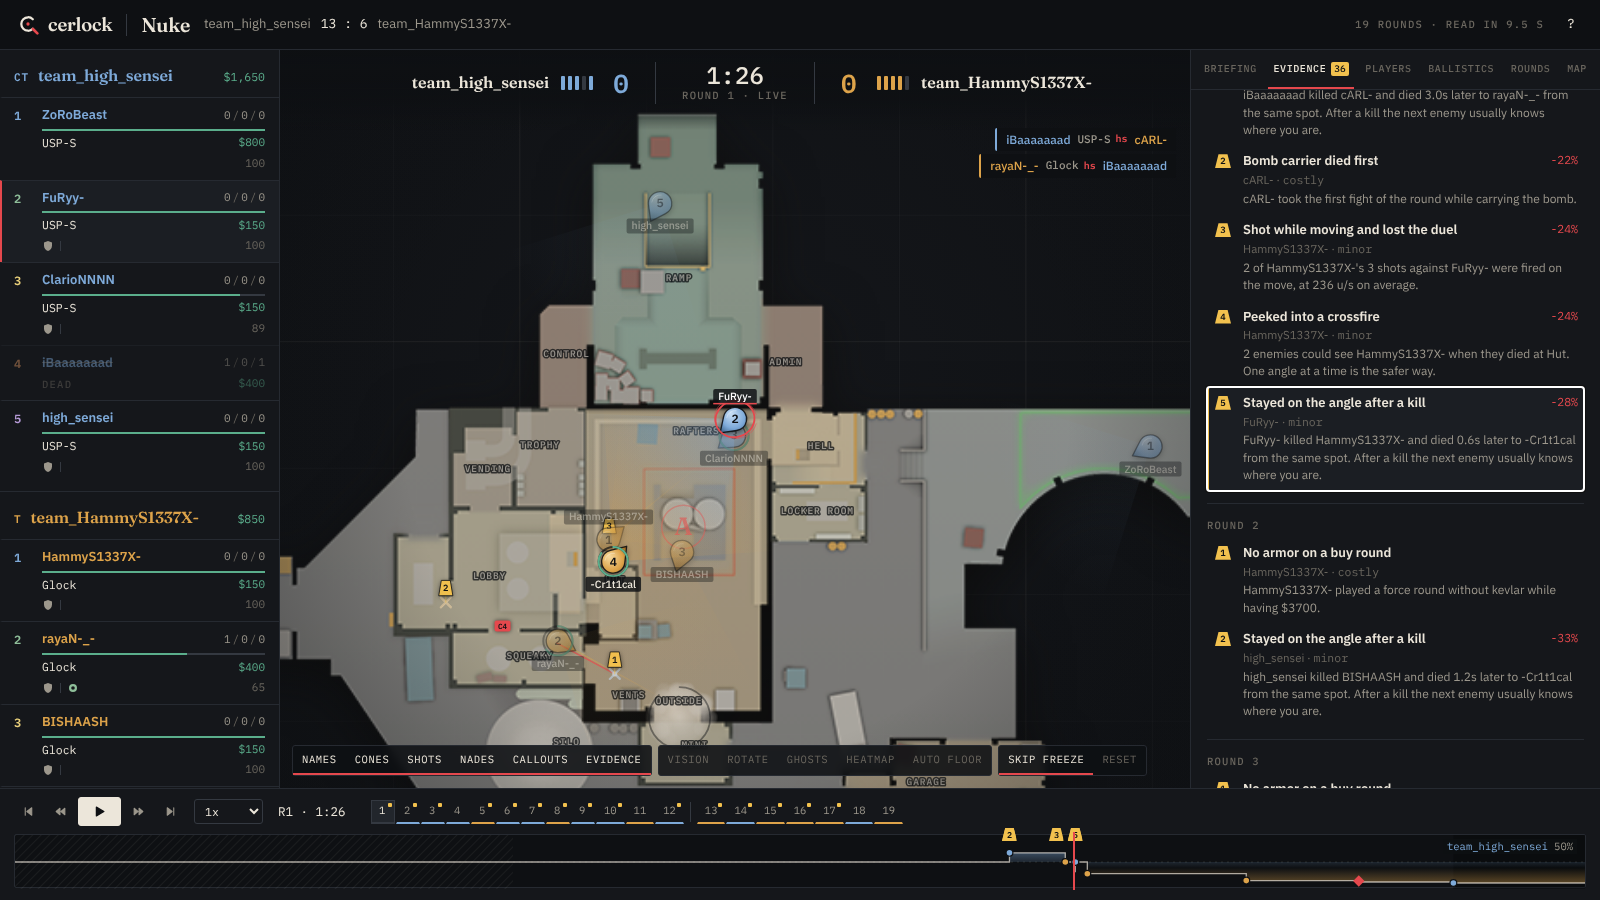
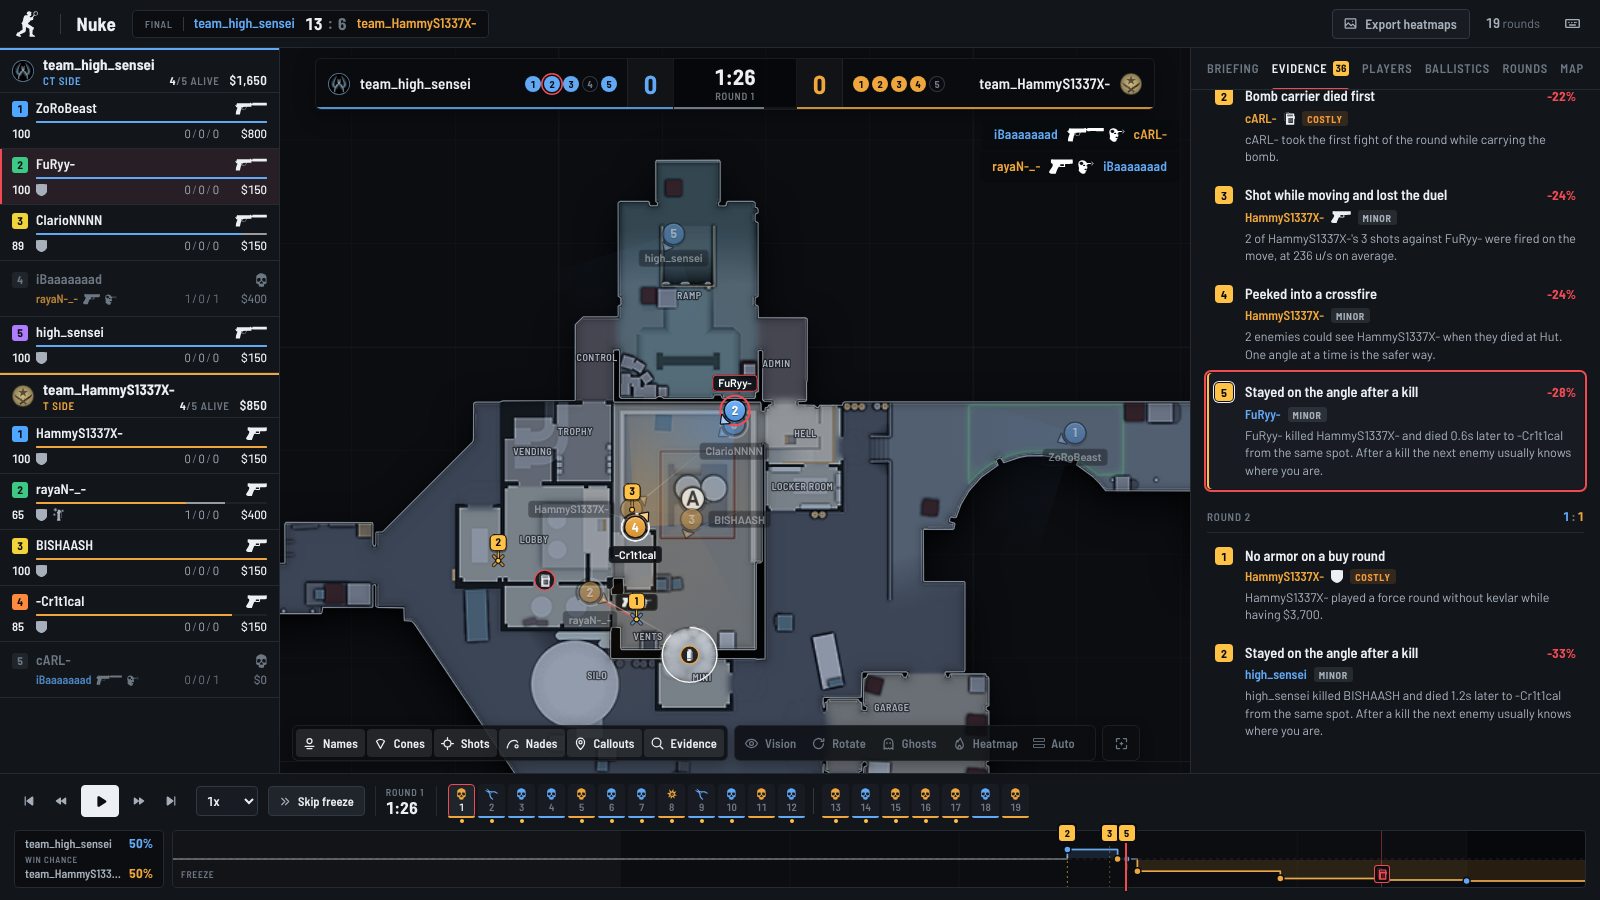
New screenshots and an up to date readme

diff --git a/README.md b/README.md
@@ -18,10 +18,10 @@ The name is Sherlock with the "Sh" swapped for the C in CS. A demo is treated li
 ## Features
 
 **Replay**
-- Players drawn as small pins that point where they look, with health, weapon, utility and money
+- Players as round tokens in their team colour with a pointer for where they look, a health ring, and the real CS2 icons for weapons, grenades, armor, kit and bomb in the roster and the killfeed (with headshot, wallbang, no-scope, through smoke and blind icons)
 - Smokes with a countdown ring, molotov fire, HE and flash pops, grenade trajectories, shot tracers, kill lines and the bomb
 - Lines from each flash to the players it blinded, with the blind time (red if it was a teammate)
-- Callout names on the map (Ramp, Heaven, Outside...) taken from the demo itself, and site letters where the bomb was planted
+- Callout names on the map (Ramp, Heaven, Outside...) taken from the demo itself, and the game's A and B badges on the bombsites
 - Follow a player by clicking them or pressing 1 to 0. Optionally rotate the map with their view
 - Team vision: only show the enemies the followed player's team could actually see
 - Ghosts: where a team stood at the same point in every other round on the same side, good for spotting setups and habits
@@ -68,8 +68,14 @@ Every mistake has a cost: how much the team's chance to win the round dropped be
 
 ![Aim](docs/aim.png)
 
+**Scouting**
+- Find the games an opponent played together on FACEIT and turn their demos into a report per map, with PNG images ready to share. See [Scouting a team](#scouting-a-team)
+
+![Library](docs/library.png)
+
 **Library**
 - Drag and drop a demo, or point the server at a folder (for example your CS2 replays folder) and new demos are parsed in the background
+- FACEIT demos you download in the browser are picked up from your Downloads folder by themselves
 - Reads `.dem` as well as compressed `.dem.gz`, `.dem.bz2` and `.dem.zst` (FACEIT and Valve MM)
 
 ## Speed
@@ -102,7 +108,7 @@ Before picking the parser I also tried demoparser2 (Rust) on the same 299 MB dem
 | --- | --- | --- |
 | Demo parsing | Go + [demoinfocs-golang](https://github.com/markus-wa/demoinfocs-golang) | Mature CS2 parser with a full game state (grenades, infernos, spotted flags, view angles), easy to run everything in one pass |
 | Server | Go standard library | One binary with the frontend embedded, nothing else to install |
-| Frontend | Svelte 5, TypeScript, Vite | Small bundle (about 57 kB of gzipped JS) and fine grained updates |
+| Frontend | Svelte 5, TypeScript, Vite | Small bundle (about 130 kB of gzipped JS) and fine grained updates |
 | Rendering | Canvas 2D | Plenty for 10 players and a few dozen effects at 60 fps, no WebGL needed |
 | Replay format | Own binary format | Typed columns that load straight into the browser |
 
@@ -160,6 +166,13 @@ Teams in ESEA often have few league games to look at, but their players queue FA
 3. Cerlock walks the last 100 matches of every player and keeps the ones where at least four of them were on the same side, newest first, with the map, the score and a link to the match room.
 4. Get the demos. Downloading demos through the API needs an extra permission from FACEIT that a normal key does not have, so open each match room and click "Watch demo". Cerlock watches your Downloads folder and picks up FACEIT demos by itself (turn it off with `--downloads=false`), or you can drop them in. They are matched to the players by SteamID. If your key does have download access, Cerlock downloads them itself into `demos/faceit` in the data folder.
 5. Build the report. For every map you get a set of PNG images in one style, with the team or player name in the top corner and the Cerlock logo in the other: a summary card, the whole team on CT and T, T executes per site with the utility and plants, post plant and retake positions, opening duels, utility with throw lines, pistol and eco rounds, AWP spots, kills and deaths, and per player their early CT and T positions. Download them one by one or as a zip per map.
+
+![Scout report](docs/scout.png)
+
+<p>
+  <img src="docs/poster-summary.png" width="49%" alt="Summary card">
+  <img src="docs/poster-execute.png" width="49%" alt="A execute">
+</p>
 
 The same exports work on a single demo: open it, go to the Players tab and use "Export heatmaps" to get one image per player of the team you pick.
 
@@ -236,7 +249,7 @@ make test    # go vet, go test, svelte-check and vitest
 ## Project layout
 
 ```
-cmd/cerlock          CLI and server entry point
+cmd/cerlock          CLI, server and the Windows app window
 internal/parse       single pass demo parser built on demoinfocs
 internal/aim         duel windows and aim metrics
 internal/analysis    stats, findings, mistakes, win chance and round notes
@@ -245,22 +258,22 @@ internal/replay      replay file writer
 internal/maps        overview files, radar images and the map cache
 internal/pipeline    decompress, parse, analyse, write
 internal/faceit      FACEIT API client and the search for games played together
+internal/icons       weapon and killfeed icons, downloaded and cached
 internal/server      HTTP API, library and background parsing
 web/                 Svelte frontend
-scripts/             radar export from your own game files
+scripts/             radar and icon export from your own game files
 ```
 
 ## Design
 
-The look is meant to feel like a case file on a dark desk instead of an esports overlay or a generic dashboard. Warm off-white text, one red for marking things, a yellow for evidence, and steel blue and ochre for the two sides. Fraunces for headings, IBM Plex Sans for text and IBM Plex Mono for numbers. The full notes are in [docs/BRAND.md](docs/BRAND.md).
+Dark, sharp and close to the game's own HUD, without looking like an esports overlay or a generic dashboard. The map, the players and the utility get the colour, the interface around them stays calm. One red for what matters, amber for evidence, blue and gold for the two sides, Barlow and Barlow Semi Condensed for all text, and the real CS2 icons for anything in the game. The logo is a CT operator holding a magnifying glass. The full notes are in [docs/BRAND.md](docs/BRAND.md).
 
 ## Credits
 
 - [demoinfocs-golang](https://github.com/markus-wa/demoinfocs-golang) for the demo parsing
 - Radar images and overview data belong to Valve. They are not stored in this repository
 - Test demos from the demoinfocs test set ([cs-demos-2](https://gitlab.com/markus-wa/cs-demos-2))
-- Fonts: [Fraunces](https://github.com/undercasetype/Fraunces), [IBM Plex Sans and IBM Plex Mono](https://github.com/IBM/plex), all under the SIL Open Font License, bundled through Fontsource
-
+- Fonts: [Barlow and Barlow Semi Condensed](https://github.com/jpt/barlow) under the SIL Open Font License, bundled through Fontsource
 - Weapon, utility and killfeed icons belong to Valve. Like the radar images they are not stored here: Cerlock downloads them on first use from [drweissbrot/cs-hud](https://github.com/drweissbrot/cs-hud) and [akiver/cs-demo-manager](https://github.com/akiver/cs-demo-manager), or you can export them from your own game files with `scripts/extract-icons.sh`
 - The CERLOCK wordmark is drawn from [Exo 2](https://github.com/NDISCOVER/Exo-2.0) (SIL Open Font License)
 
